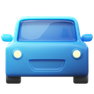
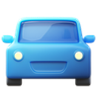
feat: varios ajustes

diff --git a/src/components/landing/hero-section.tsx b/src/components/landing/hero-section.tsx
@@ -1,7 +1,6 @@
 import Image from "next/image";
 import Link from "next/link";
 import { PiArrowRight, PiCheckCircle } from "react-icons/pi";
-import { FadeIn } from "./fade-in";
 
 const CHECKS = [
   "Sin comisiones por venta",
@@ -9,26 +8,26 @@ const CHECKS = [
   "Listo en el día",
 ];
 
+// IMPORTANTE: el hero NO usa FadeIn (GSAP) a propósito. La imagen del hero es el
+// elemento LCP; animarla con opacity 0→1 vía JS la hacía aparecer recién cuando
+// hidrataba GSAP (~2.2s de render delay en mobile). Renderizándola estática,
+// pinta al instante. Las animaciones de scroll quedan para debajo del fold.
 export function HeroSection() {
   return (
     <section className="relative overflow-hidden bg-gradient-to-b from-blue-50 via-white to-white px-4 pb-0 pt-24 sm:pt-32">
       <div className="mx-auto max-w-2xl text-center">
-        <FadeIn delay={0.1}>
-          <h1 className="text-4xl font-semibold leading-tight tracking-tight text-gray-900 sm:text-5xl lg:text-[3.25rem]">
-            Vendé más autos desde tu{" "}
-            <span className="text-blue-600">propio sitio.</span>
-          </h1>
-        </FadeIn>
+        <h1 className="text-4xl font-semibold leading-tight tracking-tight text-gray-900 sm:text-5xl lg:text-[3.25rem]">
+          Vendé más autos desde tu{" "}
+          <span className="text-blue-600">propio sitio.</span>
+        </h1>
 
-        <FadeIn delay={0.2}>
-          <p className="mx-auto mt-5 max-w-xl text-base font-light leading-relaxed text-gray-500">
-            Tu sitio web profesional, tu catálogo siempre actualizado y las
-            consultas que llegan directo a vos. Sin comisiones por venta y sin
-            depender de los portales.
-          </p>
-        </FadeIn>
+        <p className="mx-auto mt-5 max-w-xl text-base font-light leading-relaxed text-gray-600">
+          Tu sitio web profesional, tu catálogo siempre actualizado y las
+          consultas que llegan directo a vos. Sin comisiones por venta y sin
+          depender de los portales.
+        </p>
 
-        <FadeIn delay={0.3} className="mt-8 flex flex-wrap justify-center gap-3">
+        <div className="mt-8 flex flex-wrap justify-center gap-3">
           <Link
             href="/sign-up"
             className="inline-flex items-center gap-2 rounded-lg bg-blue-600 px-6 py-3 text-sm font-medium text-white transition hover:bg-blue-700"
@@ -42,45 +41,44 @@ export function HeroSection() {
           >
             Ver planes
           </a>
-        </FadeIn>
+        </div>
 
-        <FadeIn delay={0.4} className="mt-8 flex flex-wrap justify-center gap-x-6 gap-y-2">
+        <div className="mt-8 flex flex-wrap justify-center gap-x-6 gap-y-2">
           {CHECKS.map((c) => (
-            <span key={c} className="inline-flex items-center gap-1.5 text-xs font-light text-gray-400">
+            <span key={c} className="inline-flex items-center gap-1.5 text-xs font-light text-gray-500">
               <PiCheckCircle className="h-3.5 w-3.5 text-blue-500" />
               {c}
             </span>
           ))}
-        </FadeIn>
+        </div>
       </div>
 
-      {/* Product screenshot */}
+      {/* Product screenshot (elemento LCP) */}
       <div className="mx-auto mt-16 max-w-5xl">
-        <FadeIn delay={0.5}>
-          <div className="overflow-hidden rounded-t-2xl border border-b-0 border-gray-200/80 shadow-2xl shadow-blue-100/60">
-            {/* Browser chrome */}
-            <div className="flex items-center gap-3 border-b border-gray-200 bg-white/90 px-4 py-3 backdrop-blur-sm">
-              <div className="flex gap-1.5 shrink-0">
-                <span className="h-2.5 w-2.5 rounded-full bg-red-300/80" />
-                <span className="h-2.5 w-2.5 rounded-full bg-amber-300/80" />
-                <span className="h-2.5 w-2.5 rounded-full bg-green-300/80" />
-              </div>
-              <div className="flex flex-1 justify-center">
-                <span className="flex max-w-[220px] flex-1 items-center gap-1.5 rounded-md border border-gray-200 bg-gray-50 px-3 py-1 text-center text-[10px] text-gray-400">
-                  motorflowapp.com/mi-concesionario
-                </span>
-              </div>
+        <div className="overflow-hidden rounded-t-2xl border border-b-0 border-gray-200/80 shadow-2xl shadow-blue-100/60">
+          {/* Browser chrome */}
+          <div className="flex items-center gap-3 border-b border-gray-200 bg-white/90 px-4 py-3 backdrop-blur-sm">
+            <div className="flex gap-1.5 shrink-0">
+              <span className="h-2.5 w-2.5 rounded-full bg-red-300/80" />
+              <span className="h-2.5 w-2.5 rounded-full bg-amber-300/80" />
+              <span className="h-2.5 w-2.5 rounded-full bg-green-300/80" />
             </div>
-            <Image
-              src="/mockups/website_mockup_1778627472208.png"
-              alt="Sitio público del concesionario en motorflow"
-              width={1200}
-              height={700}
-              className="w-full"
-              priority
-            />
+            <div className="flex flex-1 justify-center">
+              <span className="flex max-w-[220px] flex-1 items-center gap-1.5 rounded-md border border-gray-200 bg-gray-50 px-3 py-1 text-center text-[10px] text-gray-600">
+                motorflowapp.com/mi-concesionario
+              </span>
+            </div>
           </div>
-        </FadeIn>
+          <Image
+            src="/mockups/website_mockup_1778627472208.png"
+            alt="Sitio público del concesionario en motorflow"
+            width={1200}
+            height={700}
+            sizes="(max-width: 1024px) 100vw, 1024px"
+            className="w-full"
+            priority
+          />
+        </div>
       </div>
     </section>
   );

diff --git a/src/components/shared/footer.tsx b/src/components/shared/footer.tsx
@@ -24,7 +24,7 @@ export function Footer() {
 
           {/* Producto */}
           <div>
-            <h3 className="text-xs font-bold uppercase tracking-wider text-gray-500">
+            <h3 className="text-xs font-bold uppercase tracking-wider text-gray-400">
               Producto
             </h3>
             <ul className="mt-4 flex flex-col gap-2.5 text-sm text-gray-400">
@@ -39,7 +39,7 @@ export function Footer() {
 
           {/* Contacto */}
           <div>
-            <h3 className="text-xs font-bold uppercase tracking-wider text-gray-500">
+            <h3 className="text-xs font-bold uppercase tracking-wider text-gray-400">
               Contacto
             </h3>
             <ul className="mt-4 flex flex-col gap-3 text-sm text-gray-400">
@@ -61,7 +61,7 @@ export function Footer() {
                   +54 11 0000-0000
                 </a>
               </li>
-              <li className="text-xs text-gray-500">
+              <li className="text-xs text-gray-400">
                 Lun a Vie · 9 a 18 hs (ART)
               </li>
             </ul>
@@ -69,7 +69,7 @@ export function Footer() {
 
           {/* Empresa */}
           <div>
-            <h3 className="text-xs font-bold uppercase tracking-wider text-gray-500">
+            <h3 className="text-xs font-bold uppercase tracking-wider text-gray-400">
               Empresa
             </h3>
             <ul className="mt-4 flex flex-col gap-2.5 text-sm text-gray-400">
@@ -90,7 +90,7 @@ export function Footer() {
         </div>
 
         {/* Línea inferior */}
-        <div className="mt-10 flex flex-col items-center justify-between gap-3 border-t border-gray-800 pt-6 text-xs text-gray-500 sm:flex-row">
+        <div className="mt-10 flex flex-col items-center justify-between gap-3 border-t border-gray-800 pt-6 text-xs text-gray-400 sm:flex-row">
           <span>© {new Date().getFullYear()} motorflow. Todos los derechos reservados.</span>
           <span>
             Un producto de{" "}

diff --git a/src/components/landing/pricing-cards.tsx b/src/components/landing/pricing-cards.tsx
@@ -80,7 +80,7 @@ export function PricingCards() {
             <div className="mt-4 flex items-baseline gap-1">
               <span className="text-3xl font-semibold text-gray-900">{plan.price}</span>
               {plan.key !== "enterprise" && (
-                <span className="text-sm font-light text-gray-400">/mes</span>
+                <span className="text-sm font-light text-gray-500">/mes</span>
               )}
             </div>
 
@@ -94,7 +94,7 @@ export function PricingCards() {
               {plan.key !== "enterprise" && (
                 <li className="flex items-start gap-2.5">
                   <PiCheck className="mt-0.5 h-4 w-4 shrink-0 text-blue-600" />
-                  <span className="text-sm font-light italic text-gray-400">
+                  <span className="text-sm font-light italic text-gray-500">
                     Potenciado por motorflow
                   </span>
                 </li>
@@ -113,14 +113,14 @@ export function PricingCards() {
                 {plan.ctaText}
               </button>
               {plan.key !== "enterprise" && (
-                <p className="text-center text-xs font-light text-gray-400">
+                <p className="text-center text-xs font-light text-gray-500">
                   15 días de prueba gratuita
                 </p>
               )}
               <Link
                 href="/precios"
                 target="_blank"
-                className="text-center text-xs font-medium text-gray-400 transition hover:text-gray-900"
+                className="text-center text-xs font-medium text-gray-500 transition hover:text-gray-900"
               >
                 Saber más
               </Link>

diff --git a/src/components/landing/pricing-disclaimer.tsx b/src/components/landing/pricing-disclaimer.tsx
@@ -4,9 +4,9 @@
  */
 export function PricingDisclaimer() {
   return (
-    <p className="mx-auto max-w-2xl text-center text-xs font-light leading-relaxed text-gray-400">
-      Los precios mostrados incluyen <strong className="font-medium text-gray-500">50% OFF</strong>{" "}
-      válido los <strong className="font-medium text-gray-500">primeros 6 meses</strong> desde el
+    <p className="mx-auto max-w-2xl text-center text-xs font-light leading-relaxed text-gray-500">
+      Los precios mostrados incluyen <strong className="font-medium text-gray-600">50% OFF</strong>{" "}
+      válido los <strong className="font-medium text-gray-600">primeros 6 meses</strong> desde el
       alta. Cumplido ese período, se factura el valor de lista vigente al momento. Los planes se
       ajustan por inflación de forma aproximada cada 6 meses. Precios en pesos argentinos, IVA no
       incluido.

diff --git a/src/lib/seo.ts b/src/lib/seo.ts
@@ -7,10 +7,10 @@ export const SITE_URL = (
   process.env.NEXT_PUBLIC_APP_URL ?? "https://motorflowapp.com"
 ).replace(/\/$/, "");
 
-export const SITE_NAME = "motorflow";
+export const SITE_NAME = "MotorFlow";
 
 export const SITE_DESCRIPTION =
-  "motorflow es la plataforma para que tu concesionario de autos tenga su propio sitio web profesional: catálogo de vehículos, gestión de stock, captación de leads y operatoria de venta. Sin comisiones y sin depender de portales.";
+  "MotorFlow es la plataforma para que tu concesionario de autos tenga su propio sitio web profesional: catálogo de vehículos, gestión de stock, captación de leads y operatoria de venta. Sin comisiones y sin depender de portales.";
 
 // Contacto público (coincide con el footer / data del negocio).
 export const SITE_EMAIL = "ventas@motorflowapp.com";

diff --git a/src/app/page.tsx b/src/app/page.tsx
@@ -179,7 +179,7 @@ export default function HomePage() {
             <h2 className="text-2xl font-semibold text-gray-900 sm:text-3xl">
               ¿Listo para dar el salto?
             </h2>
-            <p className="mt-3 text-sm font-light text-gray-500">
+            <p className="mt-3 text-sm font-light text-gray-600">
               Completá el formulario y nos comunicamos para ayudarte a poner tu
               concesionario online.
             </p>

diff --git a/src/components/landing/testimonials-section.tsx b/src/components/landing/testimonials-section.tsx
@@ -114,7 +114,7 @@ export function TestimonialsSection() {
               </p>
               <div className="mt-5 border-t border-gray-100 pt-4">
                 <p className="text-sm font-medium text-gray-900">{t.name}</p>
-                <p className="mt-0.5 text-xs font-light text-gray-400">{t.role}</p>
+                <p className="mt-0.5 text-xs font-light text-gray-500">{t.role}</p>
               </div>
             </div>
           ))}

diff --git a/src/components/landing/solution-section.tsx b/src/components/landing/solution-section.tsx
@@ -51,6 +51,7 @@ export function SolutionSection() {
                 alt="Panel de inventario de motorflow"
                 width={700}
                 height={480}
+                sizes="(max-width: 1024px) 100vw, 512px"
                 className="w-full"
               />
             </div>
